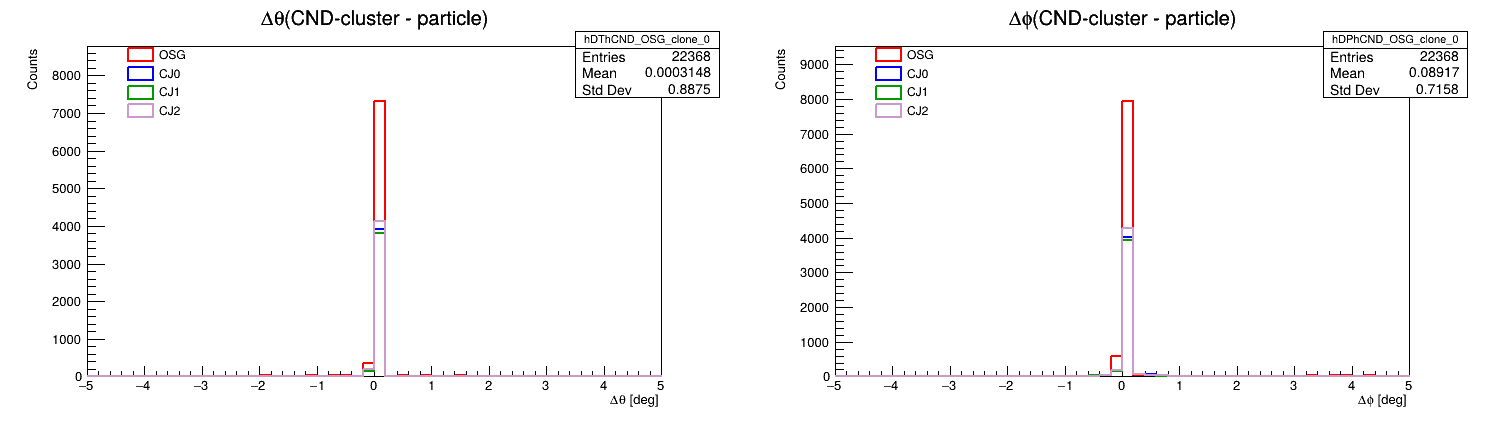
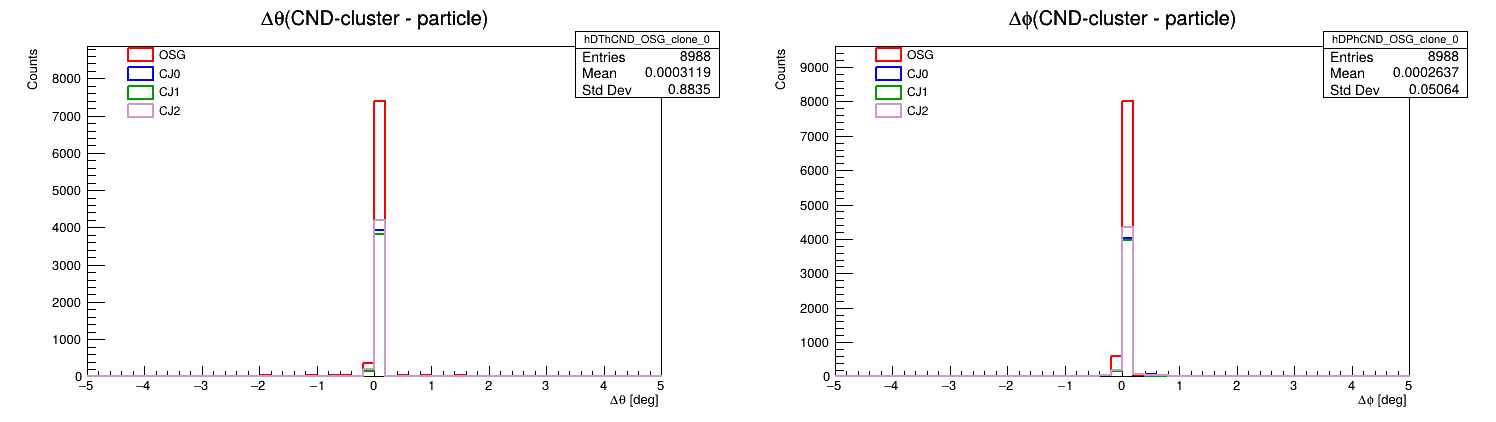
✅ Stable event selection

diff --git a/compare_cnd_versions.C b/compare_cnd_versions.C
@@ -208,8 +208,8 @@ std::unordered_map<int, int> build_best_rec_per_mc_map(const hipo::bank &PART,
 
         TVector3 pREC(px, py, pz);
 
-        // if (pREC.Mag() < pMin)
-        //     continue; // skip zero-momentum
+        if (pREC.Mag() < pMin)
+            continue; // skip zero-momentum
 
         TVector3 pMC(MCPT.getFloat("px", mcidx),
                      MCPT.getFloat("py", mcidx),
@@ -261,8 +261,8 @@ int pick_cnd_row_angle_then_energy(
         float z = SCINT.getFloat("z", sc);
 
         TVector3 dir(x - pvx, y - pvy, z - pvz); // vertex-corrected hit direction
-        // if (dir.Mag2() < 1e-6)
-        //     continue;
+        if (dir.Mag2() < 1e-6)
+            continue;
 
         float ang = pREC.Angle(dir) * TMath::RadToDeg();
         if (ang > maxCndAngDeg)
@@ -884,53 +884,53 @@ void process_chain(TChain *chain,
                 event.getStructure(RECM);
             // if (hasScintX) event.getStructure(SCINTX);
 
-            if (dst == 0 && EventNumber == 5)
-            {
-                std::cout << "\n=== DEBUG EVENT INSIDE MACRO ===\n";
-                std::cout << "file=" << fname << "\n";
-                std::cout << "run=" << RunNumber << " event=" << EventNumber << "\n";
-                std::cout << "REC::Particle rows=" << PART.getRows() << "\n";
+            // if (dst == 0 && EventNumber == 5)
+            // {
+            //     std::cout << "\n=== DEBUG EVENT INSIDE MACRO ===\n";
+            //     std::cout << "file=" << fname << "\n";
+            //     std::cout << "run=" << RunNumber << " event=" << EventNumber << "\n";
+            //     std::cout << "REC::Particle rows=" << PART.getRows() << "\n";
 
-                for (int j = 0; j < PART.getRows(); ++j)
-                {
-                    std::cout << "row " << j
-                              << " pid=" << PART.getInt("pid", j)
-                              << " px=" << PART.getFloat("px", j)
-                              << " py=" << PART.getFloat("py", j)
-                              << " pz=" << PART.getFloat("pz", j)
-                              << " vx=" << PART.getFloat("vx", j)
-                              << " vy=" << PART.getFloat("vy", j)
-                              << " vz=" << PART.getFloat("vz", j)
-                              << " beta=" << PART.getFloat("beta", j)
-                              << " chi2pid=" << PART.getFloat("chi2pid", j)
-                              << " status=" << PART.getInt("status", j)
-                              << "\n";
-                }
+            //     for (int j = 0; j < PART.getRows(); ++j)
+            //     {
+            //         std::cout << "row " << j
+            //                   << " pid=" << PART.getInt("pid", j)
+            //                   << " px=" << PART.getFloat("px", j)
+            //                   << " py=" << PART.getFloat("py", j)
+            //                   << " pz=" << PART.getFloat("pz", j)
+            //                   << " vx=" << PART.getFloat("vx", j)
+            //                   << " vy=" << PART.getFloat("vy", j)
+            //                   << " vz=" << PART.getFloat("vz", j)
+            //                   << " beta=" << PART.getFloat("beta", j)
+            //                   << " chi2pid=" << PART.getFloat("chi2pid", j)
+            //                   << " status=" << PART.getInt("status", j)
+            //                   << "\n";
+            //     }
 
-                if (hasRecMatch)
-                {
-                    std::cout << "MC::RecMatch rows=" << RECM.getRows() << "\n";
-                    for (int j = 0; j < RECM.getRows(); ++j)
-                    {
-                        std::cout << "RM row " << j
-                                  << " pindex=" << RECM.getInt("pindex", j)
-                                  << " mcindex=" << RECM.getInt("mcindex", j)
-                                  << " quality=" << RECM.getFloat("quality", j)
-                                  << "\n";
-                    }
-                }
+            //     if (hasRecMatch)
+            //     {
+            //         std::cout << "MC::RecMatch rows=" << RECM.getRows() << "\n";
+            //         for (int j = 0; j < RECM.getRows(); ++j)
+            //         {
+            //             std::cout << "RM row " << j
+            //                       << " pindex=" << RECM.getInt("pindex", j)
+            //                       << " mcindex=" << RECM.getInt("mcindex", j)
+            //                       << " quality=" << RECM.getFloat("quality", j)
+            //                       << "\n";
+            //         }
+            //     }
 
-                std::cout << "MC::Particle rows=" << MCPT.getRows() << "\n";
-                for (int j = 0; j < MCPT.getRows(); ++j)
-                {
-                    std::cout << "MC row " << j
-                              << " pid=" << MCPT.getInt("pid", j)
-                              << " px=" << MCPT.getFloat("px", j)
-                              << " py=" << MCPT.getFloat("py", j)
-                              << " pz=" << MCPT.getFloat("pz", j)
-                              << "\n";
-                }
-            }
+            //     std::cout << "MC::Particle rows=" << MCPT.getRows() << "\n";
+            //     for (int j = 0; j < MCPT.getRows(); ++j)
+            //     {
+            //         std::cout << "MC row " << j
+            //                   << " pid=" << MCPT.getInt("pid", j)
+            //                   << " px=" << MCPT.getFloat("px", j)
+            //                   << " py=" << MCPT.getFloat("py", j)
+            //                   << " pz=" << MCPT.getFloat("pz", j)
+            //                   << "\n";
+            //     }
+            // }
 
             const int nPart = PART.getRows();
             const int nSc = SCINT.getRows();
@@ -1380,9 +1380,14 @@ void print_counts(const char *tag, const Hists &h)
 
     std::cout << "\n==================== " << tag << " ====================\n";
 
+    // count only REC neutrons whose reconstructed theta lies between 40 and 120 deg
+    int bin40 = h.hTheta->FindBin(40.0);
+    int bin120 = h.hTheta->FindBin(120.0);
+    double thetaWindow = h.hTheta->Integral(bin40, bin120);
+
     std::cout << "REC::Particle neutrons (entries):\n";
     std::cout << "  hP     : " << ll(h.hP->GetEntries()) << "\n";
-    std::cout << "  hTheta : " << ll(h.hTheta->GetEntries()) << "\n";
+    std::cout << "  hTheta (40<θ<120): " << ll(thetaWindow) << "\n"; // keep original for MC match counts
     std::cout << "  hPhi   : " << ll(h.hPhi->GetEntries()) << "\n";
 
     std::cout << "MC::Particle matched neutrons (entries):\n";
